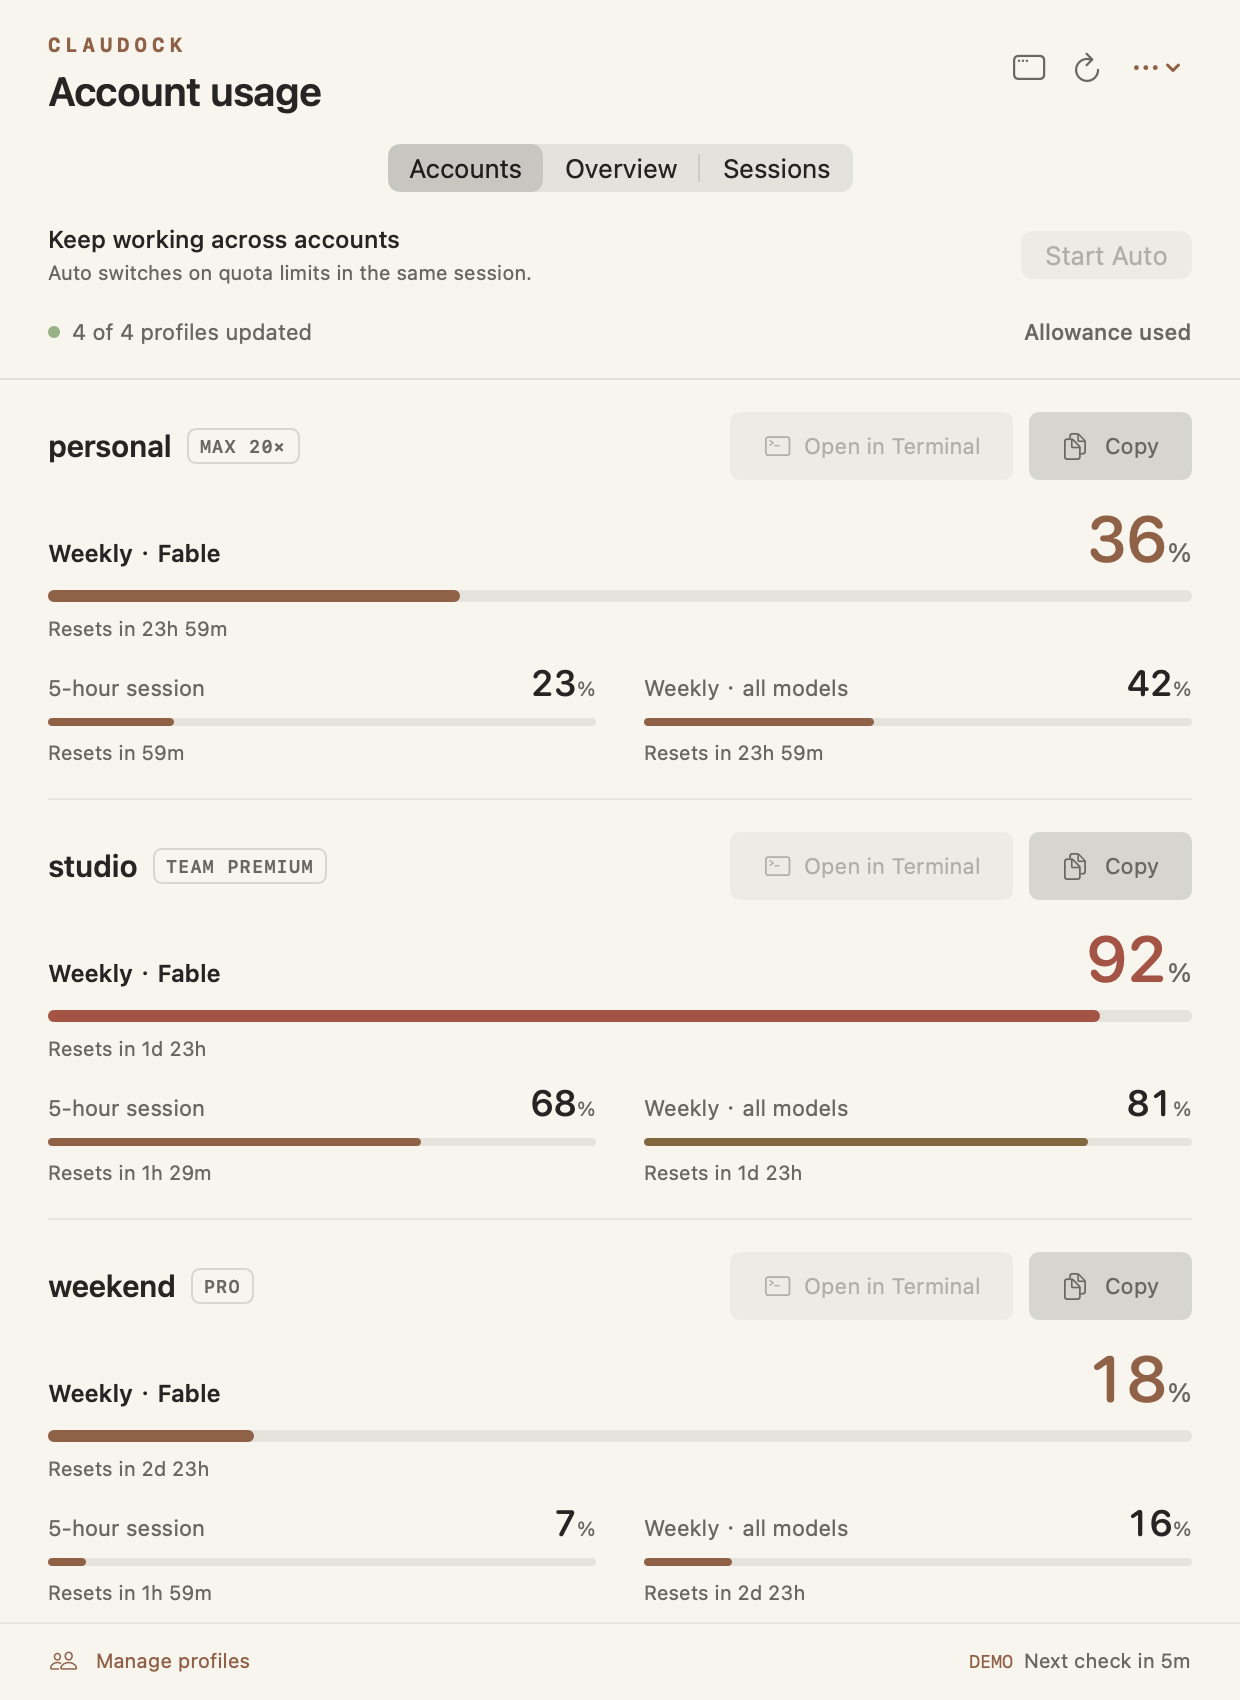
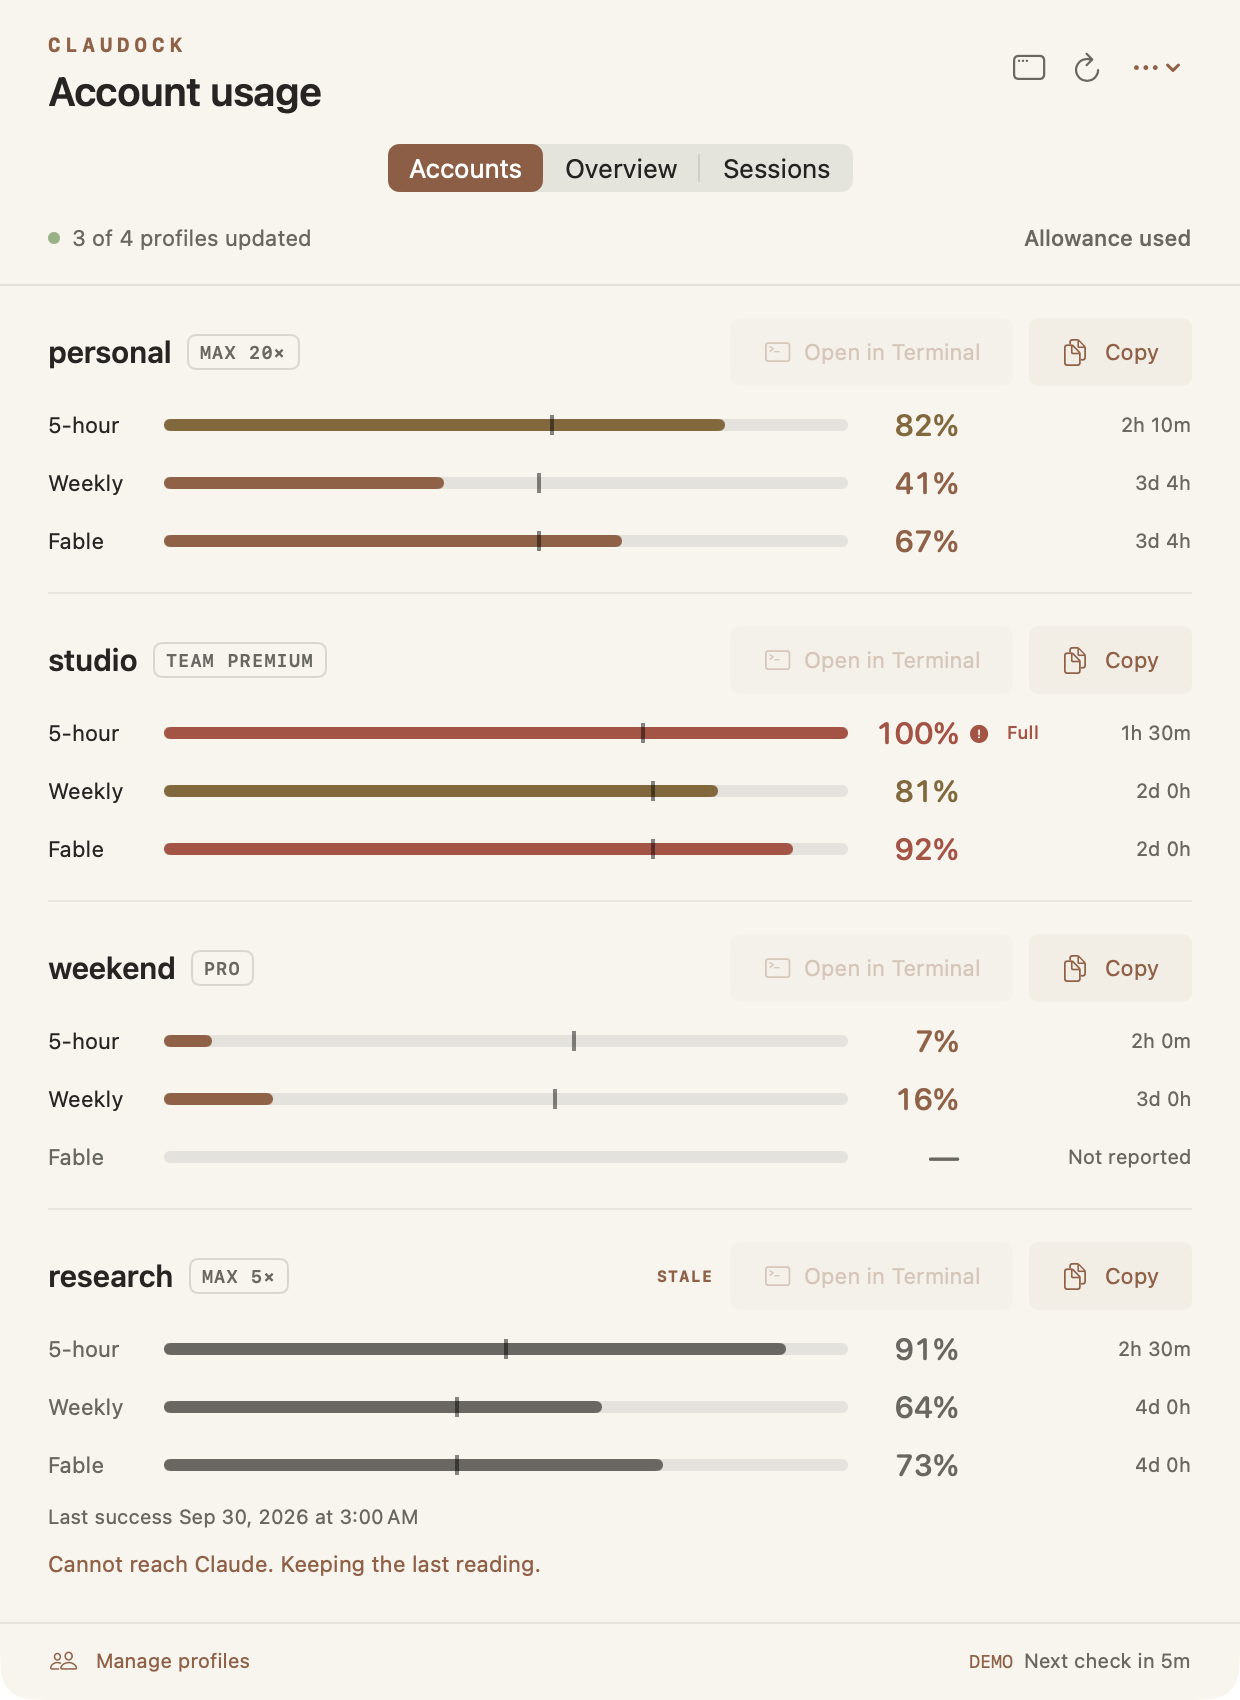
Update limit row demos and account screenshots

diff --git a/Sources/UsageCore/DemoData.swift b/Sources/UsageCore/DemoData.swift
@@ -12,30 +12,35 @@ public enum DemoData {
             return Profile(command: "claude-" + name, configDirectory: "/Users/demo/.claude-" + name)
         }
     }
-    public static func usage(index: Int) -> UsageSnapshot {
+    public static func usage(index: Int, now: Date = Date()) -> UsageSnapshot {
         guard index >= 4 else {
-            let session = [23.0, 68, 7, 91][index]
-            let week = [42.0, 81, 16, 64][index]
-            let fable = [36.0, 92, 18, 73][index]
-            return UsageSnapshot(windows: [
-                UsageWindow(id: "session", title: "5-hour session", percent: session, resetsAt: Date().addingTimeInterval(Double(3600 + index * 1800))),
-                UsageWindow(id: "weekly", title: "Weekly · all models", percent: week, resetsAt: Date().addingTimeInterval(Double(86_400 * (index + 1)))),
-                UsageWindow(id: "fable", title: "Weekly · Fable", percent: fable, resetsAt: Date().addingTimeInterval(Double(86_400 * (index + 1))))
-            ])
+            let session = [82.0, 100, 7, 91][index]
+            let week = [41.0, 81, 16, 64][index]
+            let fable = [67.0, 92, 18, 73][index]
+            let sessionReset = now.addingTimeInterval(index == 0 ? 2 * 3600 + 10 * 60 : Double(3600 + index * 1800))
+            let weeklyReset = now.addingTimeInterval(index == 0 ? 3 * 86_400 + 4 * 3600 : Double(86_400 * (index + 1)))
+            var windows = [
+                UsageWindow(id: "session-0", title: "5-hour session", percent: session, resetsAt: sessionReset),
+                UsageWindow(id: "weekly_all-1", title: "Weekly · all models", percent: week, resetsAt: weeklyReset)
+            ]
+            if index != 2 {
+                windows.append(UsageWindow(id: "weekly_scoped-2", title: "Weekly · Fable", percent: fable, resetsAt: weeklyReset))
+            }
+            return UsageSnapshot(windows: windows, fetchedAt: now)
         }
         // Deterministic variety for large previews, including additional model limits.
         var windows = [
-            UsageWindow(id: "session", title: "5-hour session", percent: Double(index * 37 % 100), resetsAt: Date().addingTimeInterval(Double(900 + index % 9 * 1800))),
-            UsageWindow(id: "weekly", title: "Weekly · all models", percent: Double((index * 53 + 11) % 100), resetsAt: Date().addingTimeInterval(Double(86_400 * (index % 7 + 1)))),
-            UsageWindow(id: "fable", title: "Weekly · Fable", percent: Double((index * 29 + 7) % 100), resetsAt: Date().addingTimeInterval(Double(86_400 * (index % 7 + 1))))
+            UsageWindow(id: "session-0", title: "5-hour session", percent: Double(index * 37 % 100), resetsAt: now.addingTimeInterval(Double(900 + index % 9 * 1800))),
+            UsageWindow(id: "weekly_all-1", title: "Weekly · all models", percent: Double((index * 53 + 11) % 100), resetsAt: now.addingTimeInterval(Double(86_400 * (index % 7 + 1)))),
+            UsageWindow(id: "weekly_scoped-2", title: "Weekly · Fable", percent: Double((index * 29 + 7) % 100), resetsAt: now.addingTimeInterval(Double(86_400 * (index % 7 + 1))))
         ]
         if index % 2 == 0 {
-            windows.append(UsageWindow(id: "opus", title: "Weekly · Opus", percent: Double((index * 17 + 3) % 100), resetsAt: Date().addingTimeInterval(Double(86_400 * (index % 5 + 1)))))
+            windows.append(UsageWindow(id: "weekly_scoped-\(windows.count)", title: "Weekly · Opus", percent: Double((index * 17 + 3) % 100), resetsAt: now.addingTimeInterval(Double(86_400 * (index % 5 + 1)))))
         }
         if index % 3 == 0 {
-            windows.append(UsageWindow(id: "sonnet", title: "Weekly · Sonnet", percent: Double((index * 11 + 5) % 100), resetsAt: Date().addingTimeInterval(Double(86_400 * (index % 4 + 2)))))
+            windows.append(UsageWindow(id: "weekly_scoped-\(windows.count)", title: "Weekly · Sonnet", percent: Double((index * 11 + 5) % 100), resetsAt: now.addingTimeInterval(Double(86_400 * (index % 4 + 2)))))
         }
-        return UsageSnapshot(windows: windows)
+        return UsageSnapshot(windows: windows, fetchedAt: now)
     }
     /// Stands in for an inference-token Keychain lookup in previews: blocks for about as
     /// long as a `security` subprocess (30–80 ms) and reports no token, without reading

diff --git a/Tests/UsageCoreTests/DemoDataTests.swift b/Tests/UsageCoreTests/DemoDataTests.swift
@@ -4,7 +4,22 @@ import XCTest
 final class DemoDataTests: XCTestCase {
     func testDefaultPreviewKeepsItsFourDocumentedProfiles() {
         XCTAssertEqual(DemoData.profiles.map(\.command), ["claude-personal", "claude-studio", "claude-weekend", "claude-research"])
-        XCTAssertEqual(DemoData.usage(index: 1).windows.map(\.percent), [68, 81, 92])
+        XCTAssertEqual(DemoData.usage(index: 1).windows.map(\.percent), [100, 81, 92])
+    }
+
+    func testPreviewCoversPaceFullAndMissingFableWithParserIDs() {
+        let now = Date(timeIntervalSince1970: 1_789_000_000)
+        let personal = DemoData.usage(index: 0, now: now)
+        XCTAssertEqual(personal.displayWindows.session?.percent, 82)
+        XCTAssertEqual(personal.displayWindows.weekly?.percent, 41)
+        XCTAssertEqual(personal.displayWindows.fable?.percent, 67)
+        XCTAssertEqual(personal.displayWindows.session?.resetsAt, now.addingTimeInterval(2 * 3600 + 10 * 60))
+        XCTAssertEqual(personal.displayWindows.weekly?.resetsAt, now.addingTimeInterval(3 * 86_400 + 4 * 3600))
+        XCTAssertEqual(personal.displayWindows.fable?.resetsAt, personal.displayWindows.weekly?.resetsAt)
+        XCTAssertEqual(personal.fetchedAt, now)
+        XCTAssertEqual(personal.windows.map(\.id), ["session-0", "weekly_all-1", "weekly_scoped-2"])
+        XCTAssertNil(DemoData.usage(index: 2, now: now).displayWindows.fable)
+        XCTAssertNotNil(DemoData.usage(index: 3, now: now).displayWindows.fable)
     }
 
     func testLargePreviewHasDistinctProfilesAndUsage() {
@@ -15,7 +30,8 @@ final class DemoDataTests: XCTestCase {
         XCTAssertEqual(profiles[4].command, "claude-demo-05")
         for index in profiles.indices {
             let windows = DemoData.usage(index: index).windows
-            XCTAssertGreaterThanOrEqual(windows.count, 3)
+            XCTAssertGreaterThanOrEqual(windows.count, index == 2 ? 2 : 3)
+            XCTAssertEqual(Set(windows.map(\.id)).count, windows.count)
             XCTAssertTrue(windows.allSatisfy { (0...100).contains($0.percent) })
         }
     }

diff --git a/Sources/ClaudeUsage/MonitorStore.swift b/Sources/ClaudeUsage/MonitorStore.swift
@@ -124,10 +124,12 @@ func readAccount(_ profile: Profile) async -> AccountReading {
     }
     func refresh(manual: Bool = false) {
         if isDemo {
+            now = Date()
             accounts = DemoData.profiles(count: demoProfileCount).enumerated().map { index, profile in
-                AccountState(profile: profile, plan: [SubscriptionPlan.max20x, .teamPremium, .pro, .max5x][index % 4], snapshot: DemoData.usage(index: index))
+                AccountState(profile: profile, plan: [SubscriptionPlan.max20x, .teamPremium, .pro, .max5x][index % 4],
+                             snapshot: DemoData.usage(index: index, now: now), error: index == 3 ? .network : nil)
             }
-            now = Date(); lastRefresh = now; nextRefresh = now.addingTimeInterval(interval)
+            lastRefresh = now; nextRefresh = now.addingTimeInterval(interval)
             loadAnalytics(); statusChanged?(); return
         }
         if refreshing { if !manual { refreshPending = true }; return }

diff --git a/docs/GUIDE.md b/docs/GUIDE.md
@@ -44,7 +44,7 @@ alias claude-personal='CLAUDE_CONFIG_DIR="$HOME/.claude-personal" claude'
 
 Discovery reads `.zshenv`, `.zprofile`, and `.zshrc`, following bounded literal `source` paths. It does not execute your shell startup files. Wrappers with dynamically computed paths can need a manual import. The app also recognizes literal `_claude-native` config-directory wrappers. Secret-looking source files are skipped.
 
-The **Accounts** tab puts an explicitly reported Fable allowance first, using a full-width progress bar and a larger percentage. If several Fable allowances are returned, the most used one leads; its title identifies the exact window. Session and overall weekly limits sit underneath, and other model-specific limits also have progress bars. Without a reported Fable allowance, the standard session/week layout is retained. Percentages represent **used** allowance. Accounts refresh sequentially, by default five minutes after a refresh completes. Choose a 1-, 5-, or 15-minute interval in Settings. Manual refresh has a one-minute cooldown. Rate limits delay the next attempt for that account, and failures retain the last reading with a stale indicator.
+The **Accounts** tab shows **5-hour**, overall **Weekly**, and **Fable** allowances in three equally weighted, aligned rows. Percentages represent **used** allowance; the vertical pace tick marks the elapsed fraction of a known 5-hour or 7-day window. A fill past the tick is ahead of elapsed time. Short reset countdowns sit beside each percentage; hover for the full reset date or hover a label for the full window title. Limits at 100% or more include a symbol and **Full**. If several Fable allowances are returned, the most used one occupies the Fable row and the others retain compact meters below. Without a reported Fable allowance, its row shows an empty track, **—**, and **Not reported**. Missing session or overall weekly rows are omitted, and unknown durations or missing reset times have no tick. Accounts refresh sequentially, by default five minutes after a refresh completes. Choose a 1-, 5-, or 15-minute interval in Settings. Manual refresh has a one-minute cooldown. Rate limits delay the next attempt for that account, and failures retain the last reading with muted meters and a stale indicator.
 
 ## Local token activity
 

diff --git a/README.md b/README.md
@@ -10,7 +10,7 @@
 
 <picture>
   <source media="(prefers-color-scheme: dark)" srcset="docs/screenshots/accounts.png">
-  <img src="docs/screenshots/accounts-light.png" width="620" alt="Claudock account view with large Fable usage bars, reset countdowns, and smaller session and weekly limits">
+  <img src="docs/screenshots/accounts-light.png" width="620" alt="Claudock demo accounts with aligned 5-hour, Weekly, and Fable usage rows, elapsed-time pace ticks, short reset countdowns, and Full, Not reported, and stale states">
 </picture>
 
 *All screenshots show synthetic demo profiles. Percentages show allowance used.*
@@ -44,11 +44,11 @@ The build targets your Mac's architecture. Apple Silicon is validated; Intel rem
 
 </details>
 
-## Check Fable first
+## Compare all three limits
 
-Fable gets the main progress bar, a readable percentage, and its reset time. Session and overall weekly limits sit underneath.
+5-hour, overall Weekly, and Fable limits appear in three equally weighted rows. Their bars share one scale, with percentages and short reset countdowns aligned across accounts. The vertical tick marks how much of the window has elapsed; a fill past the tick means allowance is being used faster than time is passing. Hover a label for the full window title or a countdown for the reset date.
 
-When several Fable limits are reported, the most used one leads. If Claude reports no Fable allowance, Claudock keeps the standard limits visible.
+A limit at 100% or more shows a symbol and **Full**. When several Fable limits are reported, the most used one fills the Fable row and the rest remain below as compact meters. If Claude reports no Fable allowance, its row shows an empty track, **—**, and **Not reported**. Missing session or weekly rows are omitted. A tick appears only when both the duration and reset time are known; stale readings stay muted.
 
 Open the profile you need with **Open in Terminal**, or use **Copy** for its launch command.
 

diff --git a/docs/DESIGN.md b/docs/DESIGN.md
@@ -8,8 +8,9 @@ The design review uses variance 3, motion 1, and density 6: predictable placemen
 
 - Preserve the Accounts, Overview, and Sessions tabs and the existing Claudock wordmark/icon.
 - Use system sans-serif text. Page titles are 20 pt semibold; section headings are 14 pt. Numbers use monospaced digits.
-- An explicitly reported Fable limit leads each account with a 32 pt percentage and a 6 pt bar. The 5-hour and overall weekly pair follows with smaller 18 pt percentages.
-- Keep labels, reset times, stale indicators, and scan coverage visible. A missing Fable allowance is not zero.
+- Give 5-hour, overall Weekly, and Fable limits equal weight in three aligned rows, with 6 pt bars and 15 pt rounded, monospaced percentages. Fixed label, percentage/status, and short reset columns keep bars aligned across accounts, including at 460 pt width.
+- Mark elapsed window time with a 2 pt pace tick extending 2 pt above and below each bar. Show it only for a known 5-hour or 7-day duration and a reported reset time. A fill past the tick means usage is ahead of elapsed time.
+- Keep full window titles and reset dates on hover and include elapsed time in accessibility labels. At 100% or more, add a symbol and “Full”; stale readings remain muted. Omit missing session/weekly rows and show a missing Fable allowance as an empty track, “—”, and “Not reported”. Keep additional limits compact, with reset times and stale indicators visible.
 - Use plain functional headings such as Daily tokens and Tokens by profile. Put detailed accounting mechanics behind a disclosure.
 - Use native controls and SF Symbols. Avoid custom cursor effects, decorative motion, card stacks, and invented usage scores.
 
